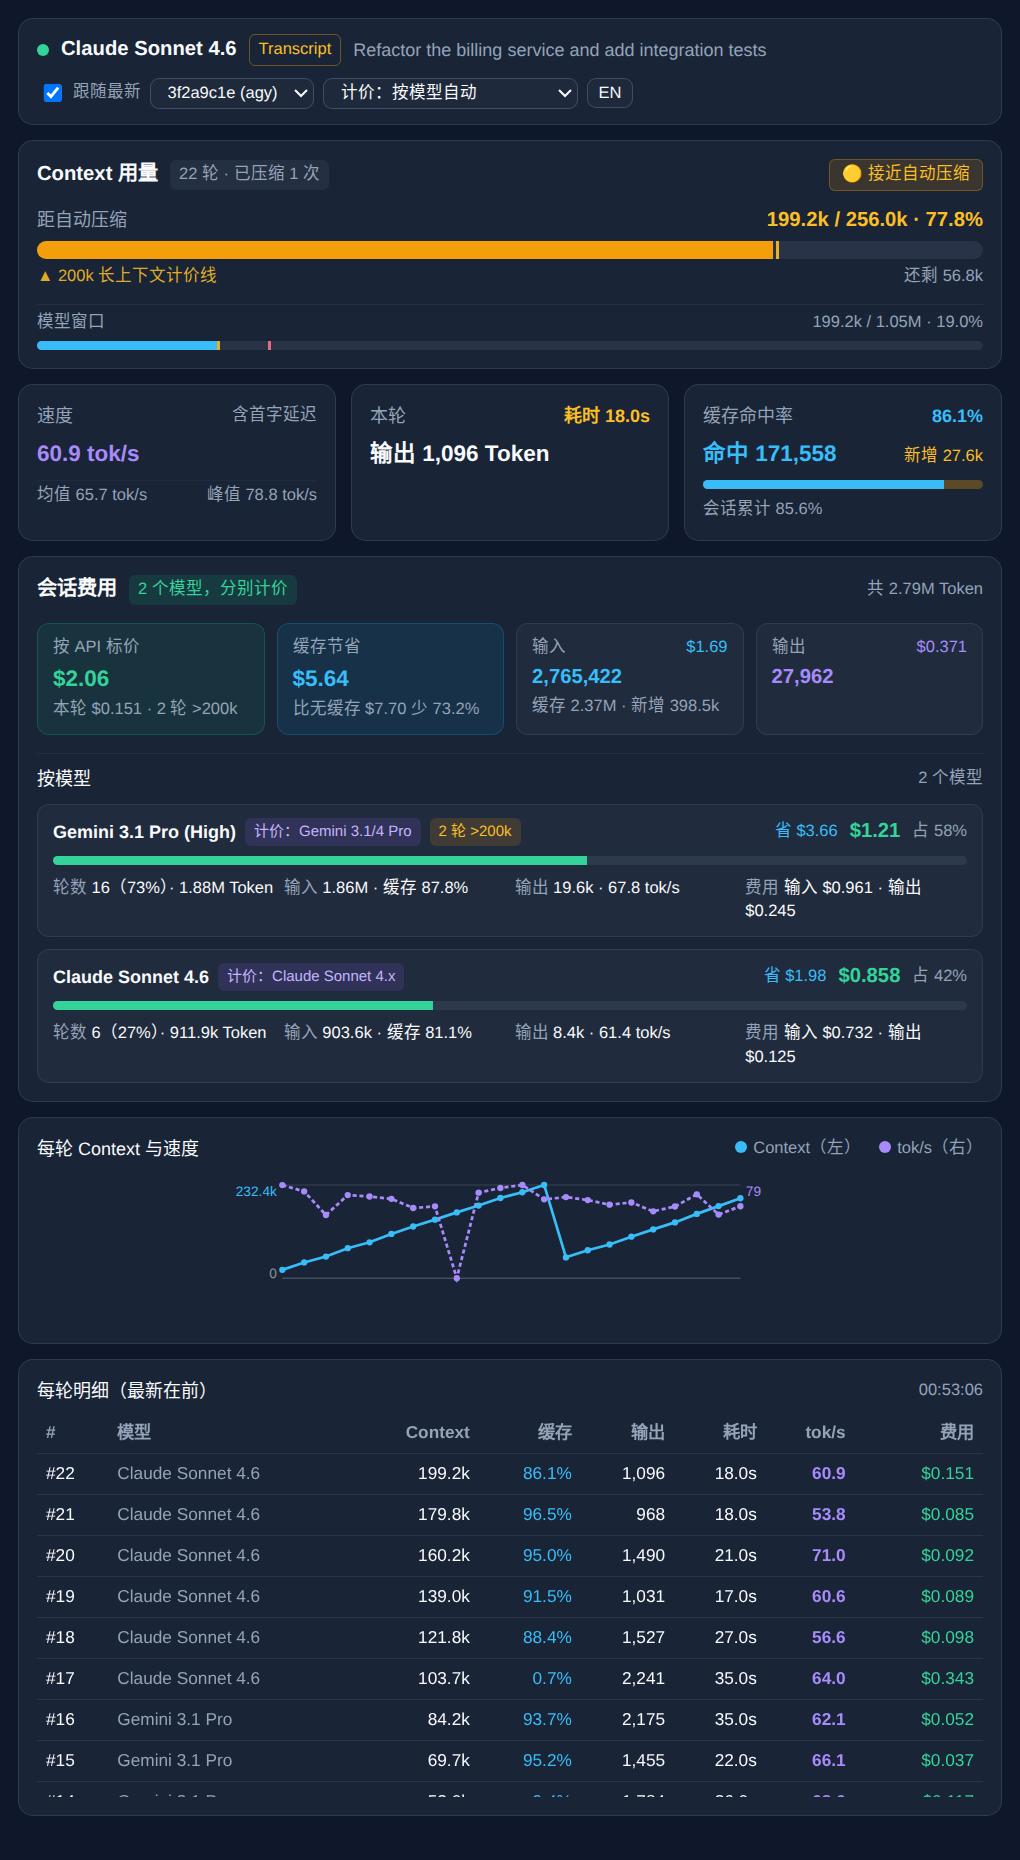
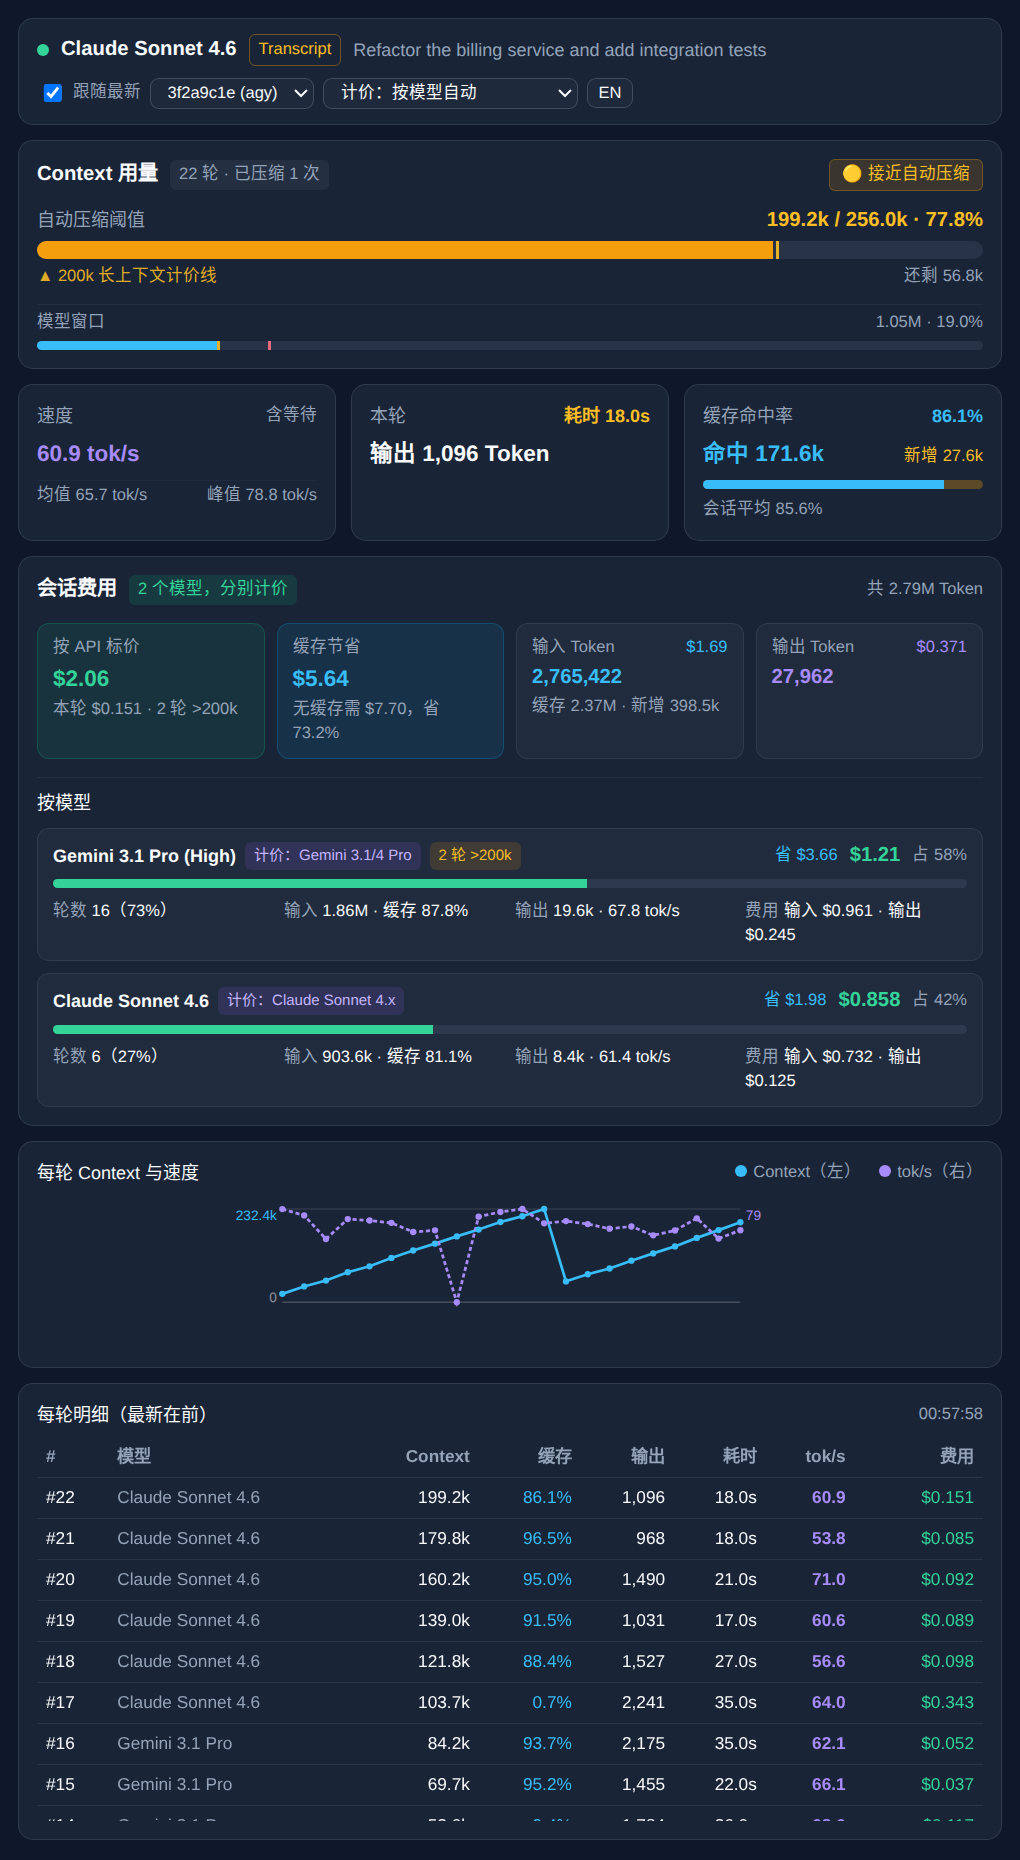
fix(ui): address review notes on the wording pass
- Long model names truncate at 60% of the header instead of pushing the
  page sideways.
- Rename the compaction bar to "Auto-compaction limit" so its number
  reads as usage; the model window row no longer repeats context used.
- Hide the 200k legend with its tick; drop the duplicate model count.
- Clearer labels and units (incl. wait, response, Session avg, Input
  tokens, "$x in · $y out", 首字 header), no empty badges or
  "0.0% less than $0" before data arrives, full title on hover.
- Rename the README metric rows to match the panel; shorten the plugin
  and sidecar descriptions; drop unused CSS utilities.

diff --git a/sidecars/context-monitor/ui/index.html b/sidecars/context-monitor/ui/index.html
@@ -62,12 +62,11 @@
     .flex-wrap { flex-wrap: wrap; }
     .flex-auto { flex: 1 1 auto; }
     .inline-block { display: inline-block; }
-    .hidden { display: none; }
     .grid { display: grid; }
     .grid-cols-1 { grid-template-columns: repeat(1, minmax(0, 1fr)); }
     .grid-cols-2 { grid-template-columns: repeat(2, minmax(0, 1fr)); }
     @media (min-width: 520px) {
-            .sm\:grid-cols-3 { grid-template-columns: repeat(3, minmax(0, 1fr)); }
+      .sm\:grid-cols-3 { grid-template-columns: repeat(3, minmax(0, 1fr)); }
       .sm\:grid-cols-4 { grid-template-columns: repeat(4, minmax(0, 1fr)); }
     }
     /* Narrow panes keep only #, Context, tok/s and Cost in the turns table. */
@@ -75,6 +74,8 @@
       .wide-only { display: none; }
     }
     table.no-ttft .col-ttft { display: none; }
+    /* Badges filled by renderData stay hidden until they have text. */
+    #ctxStatusBadge:empty, #turnCountBadge:empty, #pricingModelTag:empty { display: none; }
     .items-center { align-items: center; }
     .items-baseline { align-items: baseline; }
     .justify-between { justify-content: space-between; }
@@ -96,7 +97,8 @@
     .w-\[2px\] { width: 2px; }
     .max-w-\[145px\] { max-width: 145px; }
     .max-w-\[175px\] { max-width: 175px; }
-        .max-h-64 { max-height: 256px; }
+    .max-w-\[60\%\] { max-width: 60%; }
+    .max-h-64 { max-height: 256px; }
     .relative { position: relative; }
     .absolute { position: absolute; }
     .top-0 { top: 0; }
@@ -139,7 +141,6 @@
     .tabular-nums { font-variant-numeric: tabular-nums; }
     .select-none { user-select: none; }
     .cursor-pointer { cursor: pointer; }
-    .opacity-70 { opacity: 0.7; }
     .opacity-80 { opacity: 0.8; }
     .transition-all { transition: all 0.3s ease; }
     .duration-300 { transition-duration: 300ms; }
@@ -148,7 +149,6 @@
     .text-amber-400 { color: #fbbf24; }
     .text-amber-400\/90 { color: rgba(251, 191, 36, 0.9); }
     .text-rose-400 { color: #fb7185; }
-    .text-rose-400\/90 { color: rgba(251, 113, 133, 0.9); }
     .text-violet-400 { color: #a78bfa; }
     .text-violet-300 { color: #c4b5fd; }
     .bg-emerald-400 { background-color: #34d399; }
@@ -160,7 +160,6 @@
     .bg-amber-500 { background-color: #f59e0b; }
     .bg-amber-500\/15 { background-color: rgba(245, 158, 11, 0.15); }
     .bg-amber-500\/30 { background-color: rgba(245, 158, 11, 0.3); }
-    .bg-amber-400\/80 { background-color: rgba(251, 191, 36, 0.8); }
     .bg-amber-400\/90 { background-color: rgba(251, 191, 36, 0.9); }
     .bg-rose-500 { background-color: #f43f5e; }
     .bg-rose-500\/15 { background-color: rgba(244, 63, 94, 0.15); }
@@ -177,7 +176,7 @@
   <div class="card flex flex-wrap items-center justify-between gap-2 py-2.5">
     <div class="flex flex-auto items-center gap-2 min-w-0">
       <span id="liveDot" class="inline-block w-2 h-2 rounded-full bg-emerald-400 shrink-0"></span>
-      <span class="font-semibold text-sm shrink-0" id="modelBadge">Context & TPS</span>
+      <span class="font-semibold text-sm truncate shrink-0 max-w-[60%]" id="modelBadge">Context & TPS</span>
       <span id="sourceBadge" class="px-1.5 py-0.5 rounded text-[11px] border border-current opacity-80 shrink-0">RPC</span>
       <span id="convTitle" class="muted truncate min-w-0"></span>
     </div>
@@ -211,7 +210,7 @@
 
     <div class="space-y-1">
       <div class="flex flex-wrap items-baseline justify-between gap-1">
-        <span class="muted" data-i18n="compBarTitle">距自动压缩</span>
+        <span class="muted" data-i18n="compBarTitle">自动压缩阈值</span>
         <span id="ctxRemain" class="text-sm font-bold tabular-nums text-emerald-400"></span>
       </div>
       <div class="relative w-full h-3 rounded-full bg-slate-500/20 overflow-hidden">
@@ -219,7 +218,7 @@
         <div id="tick200kComp" class="absolute top-0 bottom-0 w-[2px] bg-amber-400/90 z-10" style="left: 78.13%" data-i18n-title="tick200kTitle"></div>
       </div>
       <div class="flex flex-wrap items-center justify-between gap-1 text-[11px] muted">
-        <span class="text-amber-400/90" data-i18n="tick200k">▲ 200k 长上下文计价线</span>
+        <span id="tick200kLegend" class="text-amber-400/90" data-i18n="tick200k">▲ 200k 长上下文计价线</span>
         <span id="ctxCompRemain" class="tabular-nums"></span>
       </div>
     </div>
@@ -304,22 +303,19 @@
         <div class="muted text-[11px] tabular-nums" id="costNoCacheUsd"></div>
       </div>
       <div class="subcard space-y-0.5">
-        <div class="flex justify-between muted text-[11px]"><span data-i18n="cumInput">输入</span><span id="costSplitUsd" class="text-sky-400 tabular-nums"></span></div>
+        <div class="flex justify-between muted text-[11px]"><span data-i18n="cumInput">输入 Token</span><span id="costSplitUsd" class="text-sky-400 tabular-nums"></span></div>
         <div class="text-sm font-bold tabular-nums text-sky-400" id="sumInTokens">0</div>
         <div class="muted text-[11px] tabular-nums" id="sumInSplit"></div>
       </div>
       <div class="subcard space-y-0.5">
-        <div class="flex justify-between muted text-[11px]"><span data-i18n="cumOutput">输出</span><span id="costDetailSplit" class="text-violet-400 tabular-nums"></span></div>
+        <div class="flex justify-between muted text-[11px]"><span data-i18n="cumOutput">输出 Token</span><span id="costDetailSplit" class="text-violet-400 tabular-nums"></span></div>
         <div class="text-sm font-bold tabular-nums text-violet-400" id="sumOutTokens">0</div>
         <div class="muted text-[11px] tabular-nums" id="sumOutSplit"></div>
       </div>
     </div>
 
     <div class="pt-2 border-t border-slate-500/15 space-y-2">
-      <div class="flex items-center justify-between">
-        <span class="font-medium text-xs" data-i18n="perModelTitle">按模型</span>
-        <span id="modelCountBadge" class="muted text-[11px]"></span>
-      </div>
+      <div class="font-medium text-xs" data-i18n="perModelTitle">按模型</div>
       <div id="modelStatsList" class="space-y-2"></div>
     </div>
   </div>
@@ -350,7 +346,7 @@
             <th>Context</th>
             <th class="wide-only" data-i18n="thCache">缓存</th>
             <th class="wide-only" data-i18n="thOut" data-i18n-title="thOutTitle">输出</th>
-            <th class="wide-only col-ttft" data-i18n-title="thTtftTitle">TTFT</th>
+            <th class="wide-only col-ttft" data-i18n="thTtft" data-i18n-title="thTtftTitle">TTFT</th>
             <th class="wide-only" data-i18n="thDur">耗时</th>
             <th data-i18n-title="thTpsTitle">tok/s</th>
             <th data-i18n="thCost">费用</th>
@@ -377,17 +373,17 @@
         statusSafe: "🟢 空间充足",
         statusWarn: "🟡 接近自动压缩",
         statusDanger: "🔴 即将自动压缩",
-        compBarTitle: "距自动压缩",
+        compBarTitle: "自动压缩阈值",
         compLeft: "还剩 {n}",
         tick200k: "▲ 200k 长上下文计价线",
         tick200kTitle: "超过 200k 输入后按长上下文价格计费",
         tickCompTitle: "自动压缩阈值",
         physBarTitle: "模型窗口",
         speedTitle: "速度",
-        modeE2e: "含首字延迟",
+        modeE2e: "含等待",
         modeDec: "仅解码",
         decode: "解码 {n}",
-        visible: "可见 {n}",
+        visible: "正文 {n}",
         avg: "均值 {n} tok/s",
         peak: "峰值 {n} tok/s",
         lastTurnTitle: "本轮",
@@ -399,7 +395,7 @@
         cacheTitle: "缓存命中率",
         cached: "命中 {n}",
         newTokens: "新增 {n}",
-        sessionRate: "会话累计 {n}%",
+        sessionRate: "会话平均 {n}%",
         billingTitle: "会话费用",
         multiModelTag: "{n} 个模型，分别计价",
         sessionTokens: "共 {n} Token",
@@ -408,18 +404,17 @@
         highTierTurns: "{n} 轮 >200k",
         highTierTitle: "该轮按 >200k 价格计费",
         cacheSaved: "缓存节省",
-        savedVsNoCache: "比无缓存 {cost} 少 {pct}%",
-        cumInput: "输入",
-        cumOutput: "输出",
+        savedVsNoCache: "无缓存需 {cost}，省 {pct}%",
+        cumInput: "输入 Token",
+        cumOutput: "输出 Token",
         inSplit: "缓存 {a} · 新增 {b}",
         outSplit: "思考 {a} · 正文 {b}",
         perModelTitle: "按模型",
-        modelCount: "{n} 个模型",
         priceAs: "计价：{p}",
         saved: "省 {n}",
         costShare: "占 {n}%",
         mTurns: "轮数",
-        mTurnsVal: "{n}（{pct}%）· {tok} Token",
+        mTurnsVal: "{n}（{pct}%）",
         mInput: "输入",
         mInputVal: "{n} · 缓存 {pct}%",
         mOutput: "输出",
@@ -433,6 +428,7 @@
         thCache: "缓存",
         thOut: "输出",
         thOutTitle: "括号内为 思考/正文",
+        thTtft: "首字",
         thTtftTitle: "首字延迟",
         thDur: "耗时",
         thTpsTitle: "端到端 tok/s，括号内为解码 tok/s",
@@ -455,17 +451,17 @@
         statusSafe: "🟢 Plenty of room",
         statusWarn: "🟡 Nearing auto-compaction",
         statusDanger: "🔴 Auto-compaction soon",
-        compBarTitle: "Until auto-compaction",
+        compBarTitle: "Auto-compaction limit",
         compLeft: "{n} left",
         tick200k: "▲ 200k long-context price",
         tick200kTitle: "Input above 200k is billed at the long-context price",
         tickCompTitle: "Auto-compaction threshold",
         physBarTitle: "Model window",
         speedTitle: "Speed",
-        modeE2e: "incl. first token",
+        modeE2e: "incl. wait",
         modeDec: "decode only",
         decode: "decode {n}",
-        visible: "visible {n}",
+        visible: "response {n}",
         avg: "avg {n} tok/s",
         peak: "peak {n} tok/s",
         lastTurnTitle: "Last turn",
@@ -477,7 +473,7 @@
         cacheTitle: "Cache hit rate",
         cached: "{n} cached",
         newTokens: "{n} new",
-        sessionRate: "Session {n}%",
+        sessionRate: "Session avg {n}%",
         billingTitle: "Session cost",
         multiModelTag: "{n} models, priced separately",
         sessionTokens: "{n} tokens",
@@ -487,22 +483,21 @@
         highTierTitle: "Billed at the >200k price",
         cacheSaved: "Saved by cache",
         savedVsNoCache: "{pct}% less than {cost} uncached",
-        cumInput: "Input",
-        cumOutput: "Output",
+        cumInput: "Input tokens",
+        cumOutput: "Output tokens",
         inSplit: "{a} cached · {b} new",
         outSplit: "thinking {a} · response {b}",
         perModelTitle: "By model",
-        modelCount: "{n} models",
         priceAs: "Price: {p}",
         saved: "saved {n}",
         costShare: "{n}% of cost",
         mTurns: "Turns",
-        mTurnsVal: "{n} ({pct}%) · {tok} tokens",
+        mTurnsVal: "{n} ({pct}%)",
         mInput: "Input",
         mInputVal: "{n} · {pct}% cached",
         mOutput: "Output",
         mCost: "Cost",
-        mCostVal: "input {a} · output {b}",
+        mCostVal: "{a} in · {b} out",
         trendTitle: "Context and speed per turn",
         axisCtx: "Context (left)",
         axisTps: "tok/s (right)",
@@ -511,6 +506,7 @@
         thCache: "Cache",
         thOut: "Output",
         thOutTitle: "Thinking/response in parentheses",
+        thTtft: "TTFT",
         thTtftTitle: "Time to first token",
         thDur: "Time",
         thTpsTitle: "End-to-end tok/s, decode tok/s in parentheses",
@@ -645,13 +641,10 @@
 
     function renderModelStats(models) {
       const container = document.getElementById("modelStatsList");
-      const badge = document.getElementById("modelCountBadge");
       if (!models || models.length === 0) {
-        badge.textContent = "";
         container.innerHTML = "<div class=\"muted text-[11px]\">" + tr("noModelData") + "</div>";
         return;
       }
-      badge.textContent = tr("modelCount", { n: models.length });
       const field = function(label, value) {
         return "<div><span class=\"muted\">" + label + " </span>" + value + "</div>";
       };
@@ -680,7 +673,7 @@
             "<div class=\"h-full bg-emerald-400 transition-all duration-300\" style=\"width: " + Math.min(100, Number(m.costSharePct || 0)).toFixed(1) + "%\"></div>" +
           "</div>" +
           "<div class=\"grid grid-cols-2 sm:grid-cols-4 gap-1.5 text-[11px] pt-0.5 tabular-nums\">" +
-            field(tr("mTurns"), tr("mTurnsVal", { n: m.turnCount, pct: m.turnSharePct.toFixed(0), tok: fmtCompact(m.totalTokens) })) +
+            field(tr("mTurns"), tr("mTurnsVal", { n: m.turnCount, pct: m.turnSharePct.toFixed(0) })) +
             field(tr("mInput"), tr("mInputVal", { n: fmtCompact(m.inCached + m.inUncached), pct: m.cacheHitRate.toFixed(1) })) +
             field(tr("mOutput"), fmtCompact(m.outTokens) + " · " + tpsStr) +
             field(tr("mCost"), tr("mCostVal", { a: fmtUsd(m.inputCostUsd), b: fmtUsd(m.outputCostUsd) })) +
@@ -717,13 +710,14 @@
       const compPct = Number(s.compactionUsedPct || 0);
 
       document.getElementById("ctxTokens").textContent =
-        fmtCompact(s.contextUsed) + " / " + fmtCompact(maxPhys) + " · " + pct.toFixed(1) + "%";
+        fmtCompact(maxPhys) + " · " + pct.toFixed(1) + "%";
       document.getElementById("ctxPhysBar").style.width = Math.min(100, pct).toFixed(2) + "%";
       document.getElementById("tick200kPhys").style.left = Math.min(100, (200000 / maxPhys) * 100).toFixed(2) + "%";
       document.getElementById("tick256kPhys").style.left = Math.min(100, (compLimit / maxPhys) * 100).toFixed(2) + "%";
       const tick200kComp = document.getElementById("tick200kComp");
       tick200kComp.style.left = Math.min(100, (200000 / compLimit) * 100).toFixed(2) + "%";
       tick200kComp.style.display = compLimit > 200000 ? "" : "none";
+      document.getElementById("tick200kLegend").style.display = tick200kComp.style.display;
 
       const level = compPct > 85 ? "rose" : compPct > 60 ? "amber" : "emerald";
       const ctxBar = document.getElementById("ctxBar");
@@ -742,7 +736,7 @@
 
       const hitRate = Number(s.lastCacheHitRate || 0);
       document.getElementById("cacheRate").textContent = hitRate.toFixed(1) + "%";
-      document.getElementById("cacheTokens").textContent = tr("cached", { n: fmtNum(s.lastCachedTokens) });
+      document.getElementById("cacheTokens").textContent = tr("cached", { n: fmtCompact(s.lastCachedTokens) });
       document.getElementById("cacheBar").style.width = Math.min(100, hitRate).toFixed(1) + "%";
       document.getElementById("uncachedTokens").textContent = tr("newTokens", { n: fmtCompact(s.lastUncachedTokens) });
       document.getElementById("sessionCacheRate").textContent = tr("sessionRate", { n: Number(s.sessionCacheHitRate || 0).toFixed(1) });
@@ -794,10 +788,13 @@
       document.getElementById("costSplitUsd").textContent = fmtUsd(s.totalInputCostUsd);
       document.getElementById("costDetailSplit").textContent = fmtUsd(s.totalOutputCostUsd);
       document.getElementById("costSavedUsd").textContent = fmtUsd(s.savedByCacheUsd);
-      document.getElementById("costNoCacheUsd").textContent =
-        tr("savedVsNoCache", { pct: Number(s.savedByCachePct || 0).toFixed(1), cost: fmtUsd(s.noCacheTotalCostUsd) });
+      document.getElementById("costNoCacheUsd").textContent = s.noCacheTotalCostUsd > 0
+        ? tr("savedVsNoCache", { pct: Number(s.savedByCachePct || 0).toFixed(1), cost: fmtUsd(s.noCacheTotalCostUsd) })
+        : "";
 
-      document.getElementById("convTitle").textContent = data.title || "";
+      const convTitle = document.getElementById("convTitle");
+      convTitle.textContent = data.title || "";
+      convTitle.title = data.title || "";
       document.getElementById("updatedTime").textContent = new Date().toLocaleTimeString();
 
       renderModelStats(data.modelStats || []);

diff --git a/README.md b/README.md
@@ -19,7 +19,7 @@ agy-pulse is a native [Antigravity sidecar](#how-it-works) that shows, for the c
 
 It runs inside Antigravity's auxiliary pane, has no dependencies beyond Node.js, and reads only local data.
 
-<p align="center"><img src="docs/screenshot-en.png" width="640" alt="agy-pulse panel showing context watermark, speed, cache hit rate, per-model cost, trend chart, and per-turn table" /></p>
+<p align="center"><img src="docs/screenshot-en.png" width="640" alt="agy-pulse panel showing distance to auto-compaction, speed, cache hit rate, per-model cost, trend chart, and per-turn table" /></p>
 
 <sub>Screenshot rendered from the synthetic fixture in <code>test/fixtures/demo</code>.</sub>
 
@@ -74,8 +74,8 @@ When both are available, RPC values win and the transcript fills gaps.
 | Metric | Definition |
 | :--- | :--- |
 | Context used | Input tokens of the latest turn (cached + uncached). |
-| Physical window | 1,048,576 tokens. The 200k and 256k ticks mark the price tier and the compaction threshold. |
-| Compaction watermark | Context used ÷ compaction limit (RPC value, else 256,000). Green below 60%, amber to 85%, red above. |
+| Auto-compaction limit | Context used ÷ compaction limit (RPC value, else 256,000). Green below 60%, amber to 85%, red above. The 200k tick marks where long-context prices start. |
+| Model window | Context used ÷ 1,048,576 tokens, the model's full window. |
 | Cache hit rate | Cached input ÷ total input, for the latest turn and for the session. |
 | E2E TPS | Output tokens ÷ (TTFT + streaming time). This is the speed you perceive. |
 | Decode TPS | Output tokens ÷ streaming time. Turns with less than 0.15 s of streaming are skipped as buffered. |
